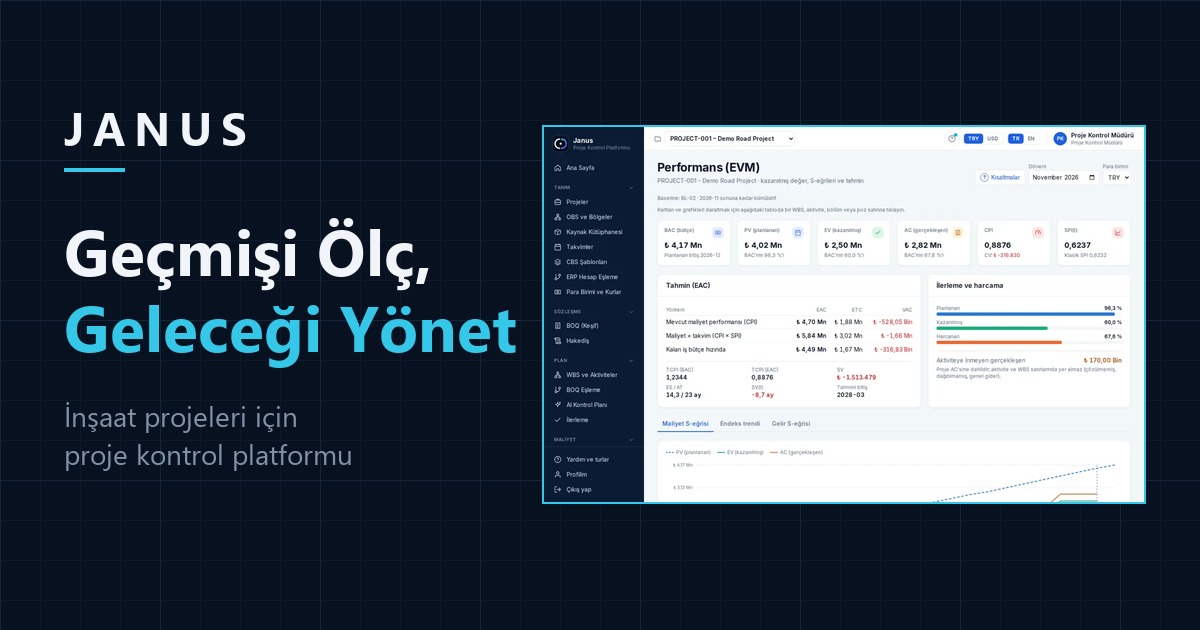
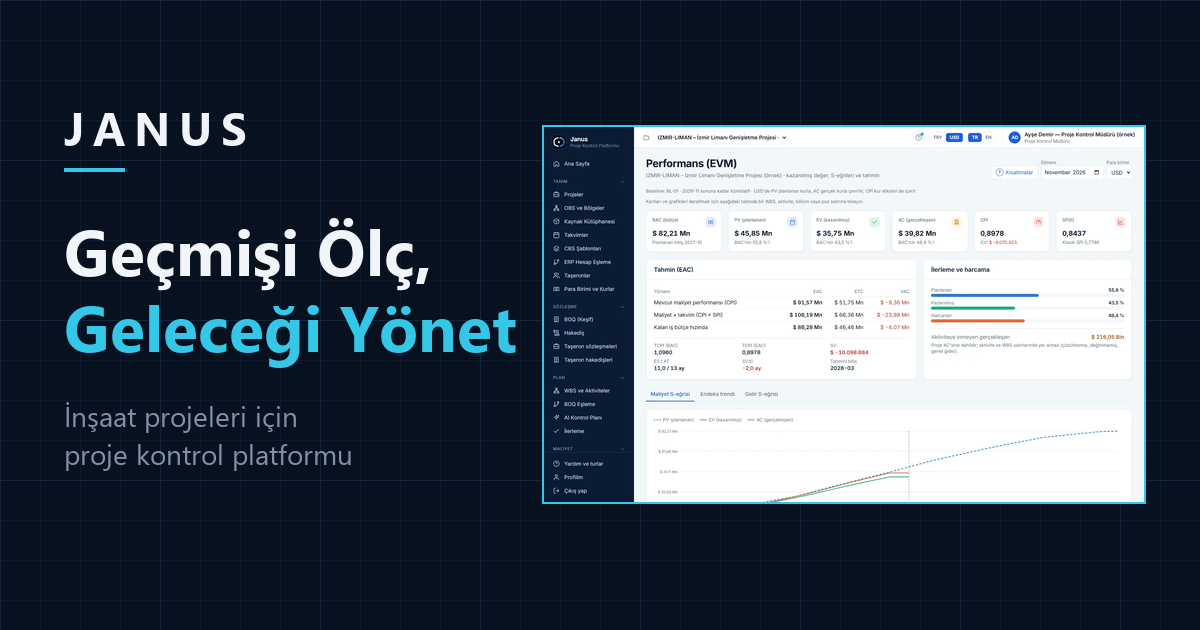
Preview build: İzmir screenshots, tabbed product screens (noindex)

diff --git a/index.html b/index.html
@@ -182,20 +182,33 @@
   .reveal.in { opacity: 1; transform: none; }
   @media (prefers-reduced-motion: reduce) { .after::before { animation: none; } .reveal { opacity: 1; transform: none; } .glow { transition: none; } }
 
-  .feat { display: grid; grid-template-columns: minmax(0, 1fr) minmax(0, 1.15fr); gap: 40px; align-items: start; }
-  .feat .grid { grid-template-columns: repeat(2, 1fr); gap: 14px; }
-  .feat .card { padding: 18px; }
-  .feat .card h3 { font-size: 1.02rem; }
-  .feat .card p { font-size: .9rem; }
-  .monitor-wrap { position: sticky; top: 110px; perspective: 1400px; }
-  .monitor { position: relative; border-radius: 4px; border: 1px solid rgba(53, 199, 232, .45); background: #111C2B; padding: 10px 10px 12px;
-    transform: rotateY(-14deg) rotateX(6deg); transform-style: preserve-3d; transition: transform .5s ease; box-shadow: 0 40px 80px -30px rgba(0, 0, 0, .7), 0 0 60px -10px rgba(53, 199, 232, .35); }
-  .monitor .dots { display: flex; gap: 6px; padding: 2px 4px 10px; }
-  .monitor .dots i { width: 9px; height: 9px; border-radius: 50%; background: rgba(165, 214, 255, .35); }
-  .monitor .screen { position: relative; aspect-ratio: 16 / 10; overflow: hidden; border-radius: 3px; background: #fff; }
-  .monitor .screen img { position: absolute; inset: 0; width: 100%; height: 100%; object-fit: cover; object-position: top left; opacity: 0; transform: translateZ(0) scale(1.04); transition: opacity .55s ease, transform .9s ease; }
-  .monitor .screen img.on { opacity: 1; transform: scale(1); }
-  .monitor .scan { display: none; } /* decorative scan line removed */
+  /* Product screens: tabs switch one large, flat screenshot; a click opens it at full size. */
+  .show { margin-bottom: 40px; }
+  .show-tabs { display: flex; flex-wrap: wrap; border-bottom: 1px solid var(--line); margin-bottom: 22px; }
+  .show-tabs button { all: unset; cursor: pointer; padding: 12px 13px; margin-bottom: -1px; border-bottom: 2px solid transparent; color: var(--muted); font-weight: 600; font-size: .9rem; transition: color .2s, border-color .2s; }
+  .show-tabs button:hover { color: var(--text); }
+  .show-tabs button[aria-selected="true"] { color: var(--text); border-bottom-color: var(--cyan); }
+  .show-tabs button:focus-visible { outline: 3px solid var(--cyan); outline-offset: -3px; }
+  .show-text { display: grid; grid-template-columns: minmax(0, .8fr) minmax(0, 1.6fr); gap: 8px 32px; align-items: baseline; margin-bottom: 18px; min-height: 3.4em; }
+  .show-text h3 { margin: 0; font-size: 1.3rem; }
+  .show-text p { margin: 0; color: var(--muted); }
+  .show-img { all: unset; display: block; box-sizing: border-box; width: 100%; cursor: zoom-in; border: 1px solid rgba(53, 199, 232, .45); border-radius: 4px; overflow: hidden; background: #fff; box-shadow: 0 30px 70px -34px rgba(0, 0, 0, .8); }
+  .show-img:focus-visible { outline: 3px solid var(--cyan); outline-offset: 3px; }
+  .show-img img { display: block; width: 100%; height: auto; transition: opacity .3s ease, transform .6s ease; }
+  .show-img img.swap { opacity: 0; transform: scale(1.015); }
+  .show-cap { margin: 12px 0 0; color: var(--muted); font-size: .86rem; }
+  .show-cap b { color: var(--text); }
+  #shotDlg { padding: 0; border: 1px solid var(--line); border-radius: 4px; background: var(--bg); color: var(--text); max-width: calc(100vw - 24px); max-height: calc(100vh - 24px); overflow: auto; }
+  #shotDlg::backdrop { background: rgba(7, 17, 31, .88); }
+  #shotDlg img { display: block; width: min(1600px, calc(100vw - 48px)); height: auto; }
+  #shotDlg .dlg-close { position: sticky; top: 8px; left: 100%; float: right; margin: 8px; z-index: 1; }
+  @media (max-width: 860px) {
+    .show-tabs { flex-wrap: nowrap; overflow-x: auto; scrollbar-width: thin; }
+    .show-tabs button { white-space: nowrap; padding: 10px 12px; font-size: .9rem; }
+    .show-text { grid-template-columns: 1fr; }
+    #shotDlg img { width: 1200px; }
+  }
+  @media (prefers-reduced-motion: reduce) { .show-img img { transition: none; } }
   /* ERP – JANUS – planning: two lines draw into JANUS when the block comes into view. */
   .flow { display: grid; grid-template-columns: 1fr minmax(40px, 120px) 1.2fr minmax(40px, 120px) 1fr; align-items: center; margin: 0 0 48px; max-width: 980px; }
   .flow .node { border: 1px solid var(--line); background: var(--card); border-radius: 3px; padding: 16px 18px; }
@@ -217,18 +230,6 @@
     .flow.in .wire { transform: scaleY(1); }
   }
   @media (prefers-reduced-motion: reduce) { .flow .wire { transform: none !important; transition: none; } }
-  .monitor-cap { margin-top: 16px; color: var(--muted); font-size: .88rem; min-height: 2.6em; }
-  .monitor-cap b { color: var(--text); }
-  .monitor.tilt-flat { transform: rotateY(0) rotateX(0); }
-  @media (prefers-reduced-motion: reduce) { .monitor, .monitor .scan { animation: none; } }
-  .ai-shot { perspective: 1400px; }
-  .ai-shot .monitor { transform: rotateY(12deg) rotateX(5deg); }
-  @media (max-width: 860px) {
-    .feat { grid-template-columns: 1fr; }
-    .monitor-wrap { position: relative; top: 0; order: -1; }
-    .monitor, .ai-shot .monitor { transform: rotateX(4deg); }
-    .feat .grid { grid-template-columns: 1fr; }
-  }
 
   /* Opening: Janus drawn as a blueprint — past (left, solid), today (centre), future (right, projected). */
   #intro { position: fixed; inset: 0; z-index: 40; background: #0a1f44; display: grid; place-items: center; overflow: hidden; transition: opacity .8s ease; cursor: pointer; }
@@ -488,30 +489,30 @@
           <i class="wire rev" aria-hidden="true"></i>
           <div class="node"><b data-en="Planning">Planlama</b><span data-en="Activities and schedule">Aktiviteler ve takvim</span></div>
         </div>
-        <div class="feat">
-          <div class="grid" id="featCards">
-          <article class="card glow pick reveal" tabindex="0" style="--d:0.00s" data-shot="mapping" data-alt="BOQ eşleme ekranı" data-en-data-alt="BOQ mapping screen"><span class="ico"><svg width="20" height="20" viewBox="0 0 24 24" fill="none" stroke="currentColor" stroke-width="1.8" stroke-linecap="round" stroke-linejoin="round" aria-hidden="true"><path d="M4 7h7M4 12h4M4 17h7M15 7h5M15 17h5M11 7l4 5-4 5M8 12h7" /></svg></span><h3 data-en="BOQ ↔ activity mapping">BOQ ↔ aktivite eşleme</h3><p data-en="Each BOQ item is linked to one or more activities with weights; unmapped and double-counted amounts are reported separately.">Her BOQ kalemi bir veya birkaç aktiviteye ağırlıkla bağlanır; eşlenmemiş ve çift sayılan tutarlar ayrıca raporlanır.</p></article>
-          <article class="card glow pick reveal" tabindex="0" style="--d:0.06s" data-shot="ai-plan" data-alt="AI kontrol planı ekranı" data-en-data-alt="AI control plan screen"><span class="ico"><svg width="20" height="20" viewBox="0 0 24 24" fill="none" stroke="currentColor" stroke-width="1.8" stroke-linecap="round" stroke-linejoin="round" aria-hidden="true"><path d="M12 3l1.8 4.6L18 9l-4.2 1.4L12 15l-1.8-4.6L6 9l4.2-1.4zM18 15l.9 2.1L21 18l-2.1.9L18 21l-.9-2.1L15 18l2.1-.9z" /></svg></span><h3 data-en="AI-assisted control plan">AI destekli kontrol planı</h3><p data-en="Proposes a WBS (work breakdown structure), activities and a CBS (cost breakdown structure) from the BOQ; nothing goes live until you approve it.">BOQ'dan iş kırılımı (WBS), aktivite ve CBS (maliyet kırılım yapısı) önerisi; siz onaylamadan hiçbir şey canlıya geçmez.</p></article>
-          <article class="card glow pick reveal" tabindex="0" style="--d:0.12s" data-shot="budget" data-alt="Bütçe ve poz analizi ekranı" data-en-data-alt="Budget and item analysis screen"><span class="ico"><svg width="20" height="20" viewBox="0 0 24 24" fill="none" stroke="currentColor" stroke-width="1.8" stroke-linecap="round" stroke-linejoin="round" aria-hidden="true"><path d="M4 20V10M10 20V4M16 20v-7M22 20H2" /></svg></span><h3 data-en="Budget, baseline, time phasing">Bütçe, baseline, zamana yayma</h3><p data-en="Budget and revenue are spread over activity durations; the baseline (approved reference plan) is frozen and variance is always measured against it.">Bütçe ve gelir aktivite süresine yayılır; baseline (onaylı referans plan) donar, sapma hep ona göre ölçülür.</p></article>
-          <article class="card glow pick reveal" tabindex="0" style="--d:0.18s" data-shot="actuals" data-alt="Gerçekleşen maliyet ekranı" data-en-data-alt="Actual cost screen"><span class="ico"><svg width="20" height="20" viewBox="0 0 24 24" fill="none" stroke="currentColor" stroke-width="1.8" stroke-linecap="round" stroke-linejoin="round" aria-hidden="true"><path d="M3 6h18M3 12h18M3 18h12M19 15l3 3-3 3" /></svg></span><h3 data-en="ERP cost attribution">ERP maliyetinin atfı</h3><p data-en="Actual cost is linked to activities and BOQ items; timesheets and allocation keys bring indirect costs down to activities.">Gerçekleşen maliyet aktiviteye ve BOQ'ya bağlanır; puantaj ve dağıtım anahtarlarıyla endirekt giderler aktivitelere iner.</p></article>
-          <article class="card glow pick reveal" tabindex="0" style="--d:0.24s" data-shot="evm" data-alt="Performans (EVM) ekranı" data-en-data-alt="Performance (EVM) screen"><span class="ico"><svg width="20" height="20" viewBox="0 0 24 24" fill="none" stroke="currentColor" stroke-width="1.8" stroke-linecap="round" stroke-linejoin="round" aria-hidden="true"><path d="M3 20c5 0 7-14 18-16M3 20h18M14 10l3 3 4-6" /></svg></span><h3 data-en="Earned value and alerts">Kazanılmış değer ve uyarılar</h3><p data-en="CPI, SPI, Earned Schedule and EAC; when a threshold is crossed, a rule-based alert with its location and a suggested action.">CPI, SPI, Earned Schedule ve EAC; eşik aşıldığında kural tabanlı uyarı, yeri ve önerilen aksiyonla.</p></article>
-          <article class="card glow pick reveal" tabindex="0" style="--d:0.30s" data-shot="dashboard" data-alt="Proje dashboard ekranı" data-en-data-alt="Project dashboard screen"><span class="ico"><svg width="20" height="20" viewBox="0 0 24 24" fill="none" stroke="currentColor" stroke-width="1.8" stroke-linecap="round" stroke-linejoin="round" aria-hidden="true"><path d="M3 3h8v8H3zM13 3h8v5h-8zM13 10h8v11h-8zM3 13h8v8H3z" /></svg></span><h3 data-en="Dashboard and reports">Dashboard ve raporlar</h3><p data-en="S-curve and indicators, the AI report assistant and the approved period report, with PDF export.">S-eğrisi ve göstergeler, AI rapor asistanı ve onaylı dönem raporu; PDF çıktısıyla.</p></article>
+        <div class="show reveal">
+          <div class="show-tabs" role="tablist" aria-label="Janus ekranları" data-en-aria-label="Janus screens">
+            <button type="button" role="tab" id="tab-mapping" aria-controls="showPanel" aria-selected="true" tabindex="0" data-shot="mapping" data-en="BOQ ↔ activity mapping">BOQ ↔ aktivite eşleme</button>
+            <button type="button" role="tab" id="tab-ai-plan" aria-controls="showPanel" aria-selected="false" tabindex="-1" data-shot="ai-plan" data-en="AI-assisted control plan">AI destekli kontrol planı</button>
+            <button type="button" role="tab" id="tab-budget" aria-controls="showPanel" aria-selected="false" tabindex="-1" data-shot="budget" data-en="Budget, baseline, time phasing">Bütçe, baseline, zamana yayma</button>
+            <button type="button" role="tab" id="tab-actuals" aria-controls="showPanel" aria-selected="false" tabindex="-1" data-shot="actuals" data-en="ERP cost attribution">ERP maliyetinin atfı</button>
+            <button type="button" role="tab" id="tab-evm" aria-controls="showPanel" aria-selected="false" tabindex="-1" data-shot="evm" data-en="Earned value and alerts">Kazanılmış değer ve uyarılar</button>
+            <button type="button" role="tab" id="tab-dashboard" aria-controls="showPanel" aria-selected="false" tabindex="-1" data-shot="dashboard" data-en="Dashboard and reports">Dashboard ve raporlar</button>
           </div>
-          <div class="monitor-wrap reveal">
-            <div class="monitor" id="monitor">
-              <div class="dots" aria-hidden="true"><i></i><i></i><i></i></div>
-              <div class="screen">
-              <img src="assets/screens/mapping.webp" alt="Janus BOQ eşleme ekranı (örnek proje verisi)" data-en-alt="Janus BOQ mapping screen (sample project data)" loading="lazy" width="1200" height="750" data-shot="mapping" class="on">
-              <img src="assets/screens/ai-plan.webp" alt="Janus AI kontrol planı ekranı (örnek proje verisi)" data-en-alt="Janus AI control plan screen (sample project data)" loading="lazy" width="1200" height="750" data-shot="ai-plan">
-              <img src="assets/screens/budget.webp" alt="Janus Bütçe ve poz analizi ekranı (örnek proje verisi)" data-en-alt="Janus budget and item analysis screen (sample project data)" loading="lazy" width="1200" height="750" data-shot="budget">
-              <img src="assets/screens/actuals.webp" alt="Janus Gerçekleşen maliyet ekranı (örnek proje verisi)" data-en-alt="Janus actual cost screen (sample project data)" loading="lazy" width="1200" height="750" data-shot="actuals">
-              <img src="assets/screens/evm.webp" alt="Janus Performans (EVM) ekranı (örnek proje verisi)" data-en-alt="Janus performance (EVM) screen (sample project data)" loading="lazy" width="1200" height="750" data-shot="evm">
-              <img src="assets/screens/dashboard.webp" alt="Janus Proje dashboard ekranı (örnek proje verisi)" data-en-alt="Janus project dashboard screen (sample project data)" loading="lazy" width="1200" height="750" data-shot="dashboard">
-                <span class="scan" aria-hidden="true"></span>
-              </div>
-            </div>
-            <p class="monitor-cap" id="monitorCap" aria-live="polite"></p>
+          <div class="show-panel" id="showPanel" role="tabpanel" aria-labelledby="tab-mapping">
+            <div class="show-text"><h3 id="showTitle"></h3><p id="showDesc"></p></div>
+            <button class="show-img" type="button" id="showZoom" aria-label="Ekranı tam boyutta aç" data-en-aria-label="Open the screen at full size">
+              <img id="showImg" src="assets/screens/tr/mapping.webp" srcset="assets/screens/tr/mapping-sm.webp 800w, assets/screens/tr/mapping.webp 1600w" sizes="(max-width: 1152px) calc(100vw - 32px), 1120px" width="1600" height="1000" loading="lazy" decoding="async" alt="">
+            </button>
+            <p class="show-cap" data-en="Sample project data: Port of İzmir Expansion (sample). Click the screen to open it at full size.">Örnek proje verisi: İzmir Limanı Genişletme (örnek). Tam boyut için ekrana tıklayın.</p>
           </div>
+        </div>
+        <div hidden id="showData">
+          <p data-shot="mapping" data-en="Each BOQ item is linked to one or more activities with weights; unmapped and double-counted amounts are reported separately.">Her BOQ kalemi bir veya birkaç aktiviteye ağırlıkla bağlanır; eşlenmemiş ve çift sayılan tutarlar ayrıca raporlanır.</p>
+          <p data-shot="ai-plan" data-en="Proposes a WBS (work breakdown structure), activities and a CBS (cost breakdown structure) from the BOQ; nothing goes live until you approve it.">BOQ'dan iş kırılımı (WBS), aktivite ve CBS (maliyet kırılım yapısı) önerisi; siz onaylamadan hiçbir şey canlıya geçmez.</p>
+          <p data-shot="budget" data-en="Budget and revenue are spread over activity durations; the baseline (approved reference plan) is frozen and variance is always measured against it.">Bütçe ve gelir aktivite süresine yayılır; baseline (onaylı referans plan) donar, sapma hep ona göre ölçülür.</p>
+          <p data-shot="actuals" data-en="Actual cost is linked to activities and BOQ items; timesheets and allocation keys bring indirect costs down to activities.">Gerçekleşen maliyet aktiviteye ve BOQ'ya bağlanır; puantaj ve dağıtım anahtarlarıyla endirekt giderler aktivitelere iner.</p>
+          <p data-shot="evm" data-en="CPI, SPI, Earned Schedule and EAC; when a threshold is crossed, a rule-based alert with its location and a suggested action.">CPI, SPI, Earned Schedule ve EAC; eşik aşıldığında kural tabanlı uyarı, yeri ve önerilen aksiyonla.</p>
+          <p data-shot="dashboard" data-en="S-curve and indicators, the AI report assistant and the approved period report, with PDF export.">S-eğrisi ve göstergeler, AI rapor asistanı ve onaylı dönem raporu; PDF çıktısıyla.</p>
         </div>
         <ul class="chips reveal">
           <li data-en="Subcontractor management">Taşeron yönetimi</li><li data-en="Granular permissions">Granüler yetki</li><li data-en="Guided tours">Rehberli turlar</li><li data-en="Turkish / English">Türkçe / İngilizce</li><li data-en="Local currency + USD">Yerel para + USD</li><li data-en="Excel import/export">Excel içe/dışa aktarma</li>
@@ -523,7 +524,7 @@
       <div class="wrap two">
         <div>
           <p class="eyebrow reveal" data-en="The role of AI">Yapay zekânın rolü</p>
-          <h2 class="big reveal" data-en="The server calculates, AI interprets.">Rakamı sunucu hesaplar, AI yorumlar.</h2>
+          <h2 class="big reveal" data-en="The system calculates, AI interprets.">Rakamı sistem hesaplar, AI yorumlar.</h2>
           <p class="sub reveal" data-en="Every number, such as cost, progress, CPI and SPI, is calculated on the server. AI interprets these results and produces suggestions and drafts.">Maliyet, ilerleme, CPI ve SPI gibi tüm sayılar sunucuda hesaplanır. Yapay zekâ bu sonuçları yorumlar, öneri ve taslak üretir.</p>
           <ul class="ticks">
             <li class="glow reveal" style="--d:.05s" data-en="&lt;b&gt;Draft first, then approval.&lt;/b&gt; AI suggestions go to a staging area; only what you accept is applied."><b>Önce taslak, sonra onay.</b> AI önerileri bekleme alanına yazılır; kabul ettikleriniz uygulanır.</li>
@@ -532,11 +533,10 @@
           </ul>
         </div>
         <div class="ai-shot reveal">
-          <div class="monitor">
-            <div class="dots" aria-hidden="true"><i></i><i></i><i></i></div>
-            <div class="screen"><img class="on" src="assets/screens/assistant.webp" alt="Janus AI rapor asistanı ekranı (örnek proje verisi)" data-en-alt="Janus AI report assistant screen (sample project data)" loading="lazy" width="1200" height="750"><span class="scan" aria-hidden="true"></span></div>
-          </div>
-          <p class="monitor-cap" data-en="&lt;b&gt;AI report assistant&lt;/b&gt; · ready-made reports and free questions, answered as a chart or table."><b>AI rapor asistanı</b> · hazır raporlar ve serbest soru; grafik veya tablo olarak.</p>
+          <button class="show-img" type="button" data-zoom="period-report" aria-label="Ekranı tam boyutta aç" data-en-aria-label="Open the screen at full size">
+            <img data-langsrc="period-report" src="assets/screens/tr/period-report.webp" srcset="assets/screens/tr/period-report-sm.webp 800w, assets/screens/tr/period-report.webp 1600w" sizes="(max-width: 860px) calc(100vw - 32px), 560px" width="1600" height="1000" loading="lazy" decoding="async" alt="Janus dönem raporu ekranı (örnek proje verisi)" data-en-alt="Janus period report screen (sample project data)">
+          </button>
+          <p class="show-cap" data-en="&lt;b&gt;Period report&lt;/b&gt; · the system fills in every figure, AI writes the commentary; the approved report is frozen as the month&#x27;s record. (The sample report is written in Turkish.)"><b>Dönem raporu</b> · rakamları sistem doldurur, yorumu AI yazar; onaylanan rapor ayın kaydı olarak dondurulur.</p>
         </div>
       </div>
     </section>
@@ -631,6 +631,10 @@
     </footer>
   </div>
 </main>
+<dialog id="shotDlg" aria-label="Ekran, tam boyut" data-en-aria-label="Screen, full size">
+  <button class="btn btn-sm dlg-close" type="button" data-en="Close">Kapat</button>
+  <img alt="">
+</dialog>
 
 <script>
 // Language switch: every translatable element carries its English text in data-en (inner HTML) and
@@ -875,38 +879,6 @@
     el.style.setProperty('--mx', `${e.clientX - r.left}px`);
     el.style.setProperty('--my', `${e.clientY - r.top}px`);
   }));
-  const cards = [...document.querySelectorAll('#featCards .card')];
-  const imgs = [...document.querySelectorAll('#monitor img')];
-  const cap = document.getElementById('monitorCap');
-  const monitor = document.getElementById('monitor');
-  let active = 0, hold = false;
-  function show(i) {
-    if (i == null) i = active;
-    active = i;
-    cards.forEach((c, k) => c.classList.toggle('on', k === i));
-    imgs.forEach(im => im.classList.toggle('on', im.dataset.shot === cards[i].dataset.shot));
-    cap.innerHTML = `<b>${cards[i].querySelector('h3').textContent}</b> · ${cards[i].dataset.alt}, ${window.__lang === 'en' ? 'sample project data' : 'örnek proje verisi'}`;
-  }
-  cards.forEach((c, i) => {
-    c.addEventListener('pointerenter', () => { hold = true; show(i); });
-    c.addEventListener('pointerleave', () => { hold = false; });
-    c.addEventListener('focus', () => { hold = true; show(i); });
-    c.addEventListener('blur', () => { hold = false; });
-    c.addEventListener('click', () => show(i));
-  });
-  // The screen leans towards the cursor.
-  const wrap = monitor.parentElement;
-  wrap.addEventListener('pointermove', e => {
-    if (reduced) return;
-    const r = wrap.getBoundingClientRect();
-    const x = (e.clientX - r.left) / r.width - 0.5, y = (e.clientY - r.top) / r.height - 0.5;
-    monitor.style.transform = `rotateY(${-14 + x * 16}deg) rotateX(${6 - y * 10}deg)`;
-  });
-  wrap.addEventListener('pointerleave', () => { monitor.style.transform = ''; });
-  show(0);
-  window.__showFeature = show; // re-render the caption after a language change
-  // Cycle through the features while nobody is pointing at them.
-  if (!reduced) setInterval(() => { if (!hold && document.documentElement.classList.contains('story') === false) show((active + 1) % cards.length); }, 4200);
 })();
 </script>
 
@@ -946,6 +918,54 @@
   addEventListener('wheel', e => { if (window.__intro) skip(e); }, { passive: false });
   addEventListener('touchend', () => { if (window.__intro) finish(); }, { passive: true });
   addEventListener('keydown', e => { if (window.__intro && e.key !== 'Tab') finish(); });
+})();
+</script>
+<script>
+// Product screens: tabs (arrow keys, Home/End), language-specific screenshots, full-size view in a dialog.
+(() => {
+  const tabs = [...document.querySelectorAll('.show-tabs [role="tab"]')];
+  if (!tabs.length) return;
+  const reduced = matchMedia('(prefers-reduced-motion: reduce)').matches;
+  const img = document.getElementById('showImg'), title = document.getElementById('showTitle'), desc = document.getElementById('showDesc');
+  const panel = document.getElementById('showPanel'), dlg = document.getElementById('shotDlg'), dlgImg = dlg.querySelector('img');
+  const lang = () => (window.__lang === 'en' ? 'en' : 'tr');
+  const files = shot => ({ src: `assets/screens/${lang()}/${shot}.webp`, srcset: `assets/screens/${lang()}/${shot}-sm.webp 800w, assets/screens/${lang()}/${shot}.webp 1600w` });
+  let active = 0;
+  function show(i, focus) {
+    active = i;
+    tabs.forEach((t, k) => { t.setAttribute('aria-selected', String(k === i)); t.tabIndex = k === i ? 0 : -1; });
+    const t = tabs[i], f = files(t.dataset.shot);
+    panel.setAttribute('aria-labelledby', t.id);
+    title.innerHTML = t.innerHTML;
+    desc.innerHTML = document.querySelector(`#showData [data-shot="${t.dataset.shot}"]`).innerHTML;
+    const alt = `${t.textContent}: ${lang() === 'en' ? 'Janus screen, sample project data' : 'Janus ekranı, örnek proje verisi'}`;
+    if (img.getAttribute('src') === f.src) { img.alt = alt; }
+    else {
+      if (!reduced) img.classList.add('swap');
+      const pre = new Image(); pre.sizes = img.sizes; pre.srcset = f.srcset; pre.src = f.src;
+      const apply = () => { img.srcset = f.srcset; img.src = f.src; img.alt = alt; requestAnimationFrame(() => img.classList.remove('swap')); };
+      (pre.decode ? pre.decode() : Promise.resolve()).then(apply, apply);
+    }
+    if (focus) t.focus();
+  }
+  tabs.forEach((t, i) => {
+    t.addEventListener('click', () => show(i));
+    t.addEventListener('keydown', e => {
+      const n = tabs.length, to = { ArrowRight: (i + 1) % n, ArrowLeft: (i - 1 + n) % n, Home: 0, End: n - 1 }[e.key];
+      if (to !== undefined) { e.preventDefault(); show(to, true); }
+    });
+  });
+  function open(shot, alt) { dlgImg.src = files(shot).src; dlgImg.alt = alt; dlg.showModal(); }
+  document.getElementById('showZoom').addEventListener('click', () => open(tabs[active].dataset.shot, img.alt));
+  document.querySelectorAll('[data-zoom]').forEach(b => b.addEventListener('click', () => open(b.dataset.zoom, b.querySelector('img').alt)));
+  dlg.querySelector('.dlg-close').addEventListener('click', () => dlg.close());
+  dlg.addEventListener('click', e => { if (e.target === dlg) dlg.close(); });
+  // Language change: re-render the tab and swap the other language-specific screenshots.
+  window.__showFeature = () => {
+    show(active);
+    document.querySelectorAll('img[data-langsrc]').forEach(im => { const f = files(im.dataset.langsrc); im.srcset = f.srcset; im.src = f.src; });
+  };
+  window.__showFeature();
 })();
 </script>
 <script>
